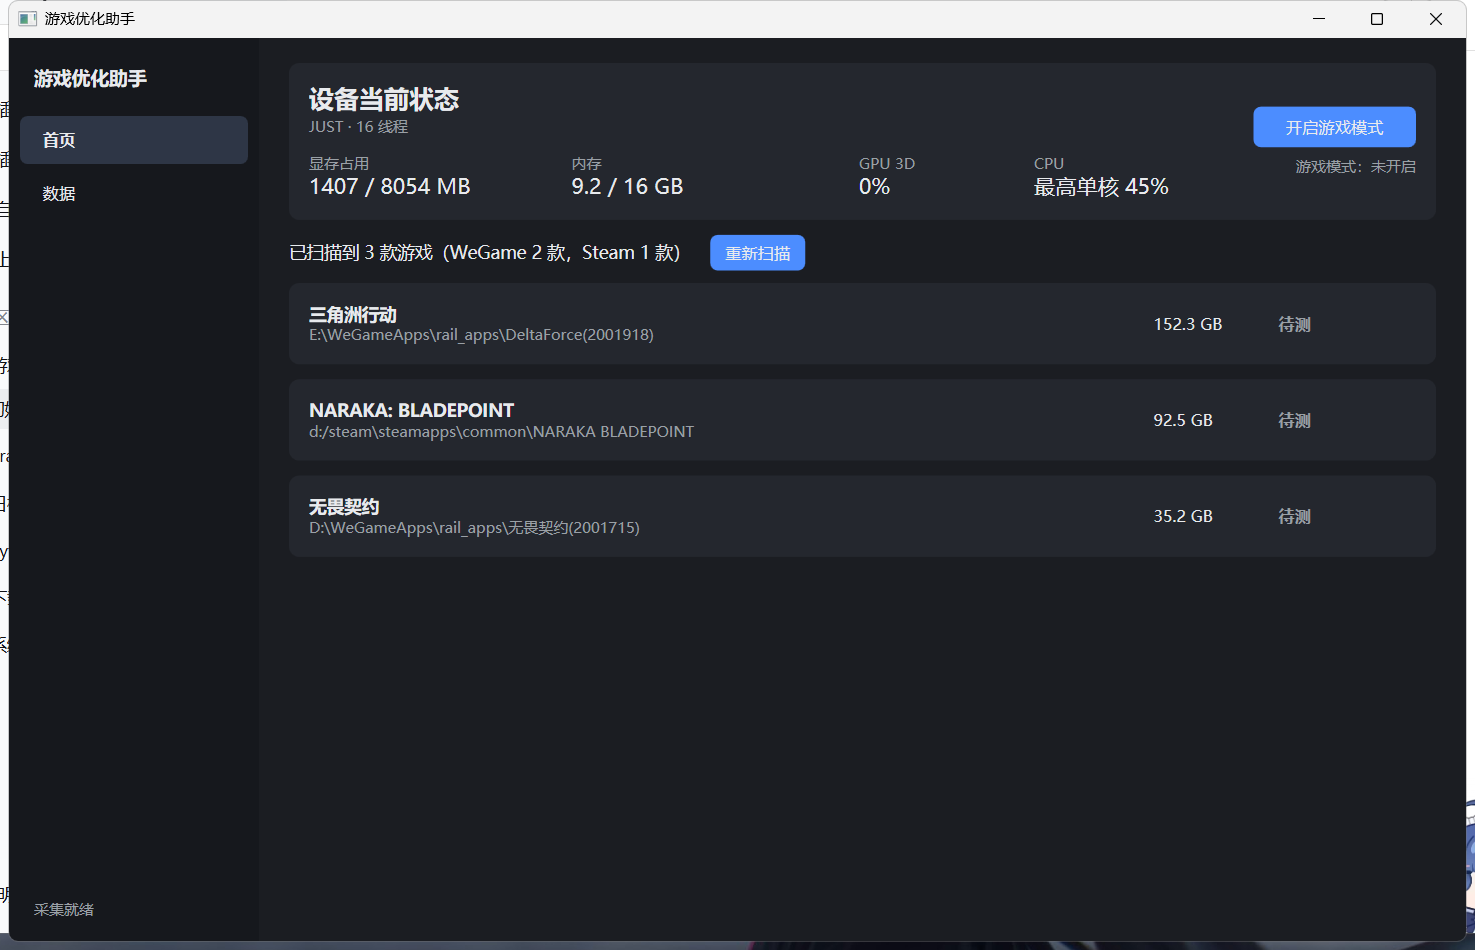
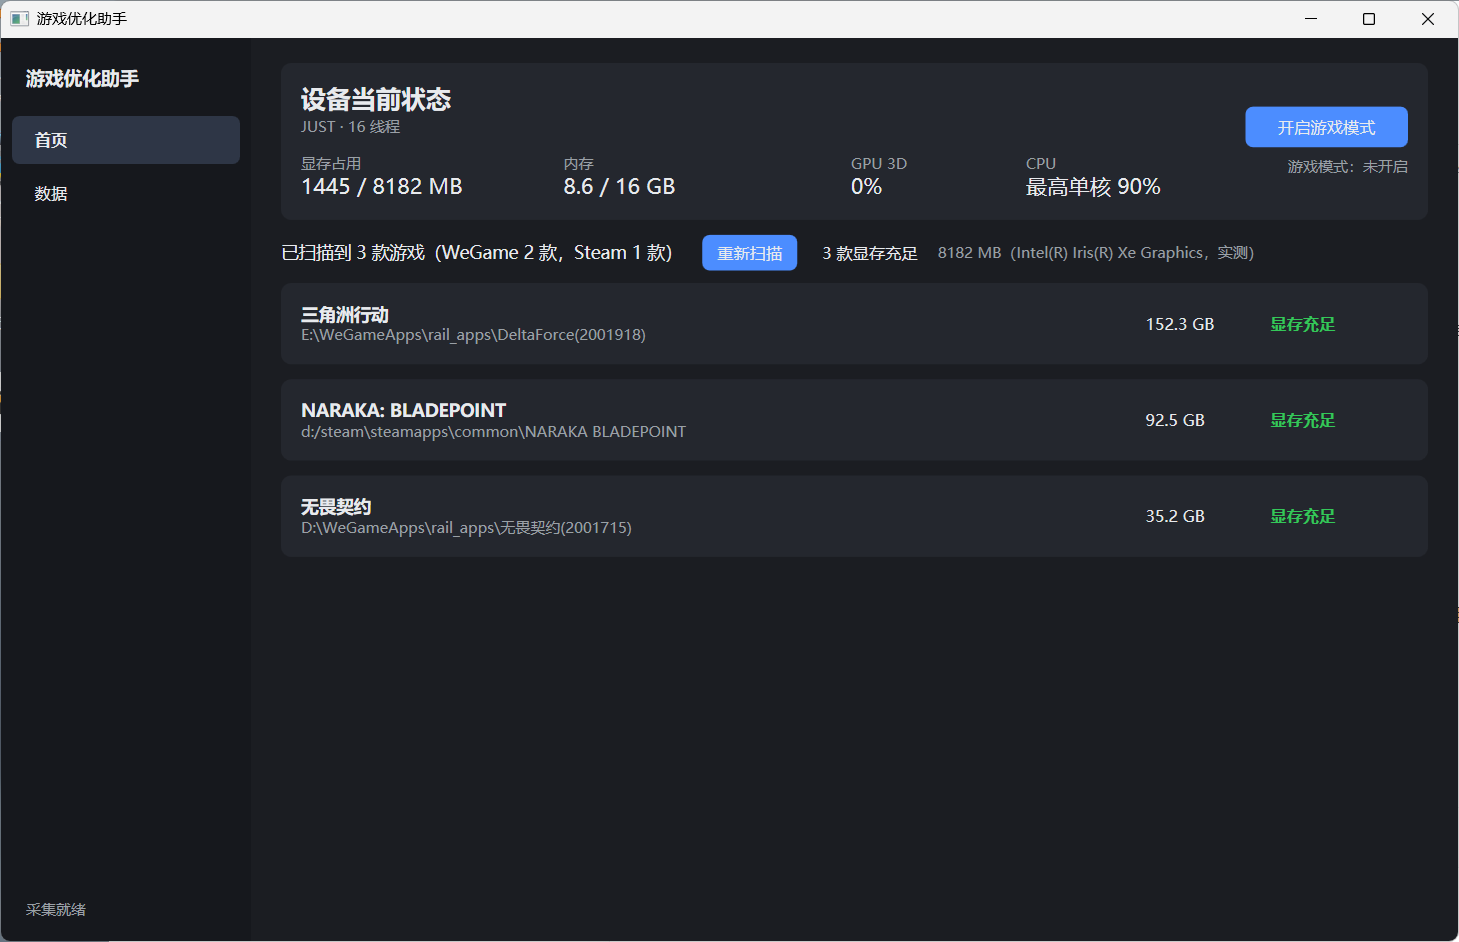
chore: 移除已无用的下拉框样式，更新首页截图

diff --git a/src/GameOptimizer.App/Views/MainWindow.xaml b/src/GameOptimizer.App/Views/MainWindow.xaml
@@ -10,25 +10,6 @@
         FontFamily="Microsoft YaHei UI">
 
     <Window.Resources>
-        <!-- 下拉框在深色界面上必须显式给前景色：全局 TextBlock 样式是浅色字，
-             默认白色 ComboBox 会把选项文字刷成白底白字，看起来像空白 -->
-        <Style TargetType="ComboBox">
-            <Setter Property="Background" Value="#FF2C3038"/>
-            <Setter Property="Foreground" Value="{StaticResource TextPrimary}"/>
-            <Setter Property="BorderBrush" Value="#FF3A3F4A"/>
-            <Setter Property="Padding" Value="8,5"/>
-            <Setter Property="FontFamily" Value="Microsoft YaHei UI"/>
-            <Setter Property="FontSize" Value="13"/>
-        </Style>
-
-        <Style TargetType="ComboBoxItem">
-            <Setter Property="Background" Value="#FF2C3038"/>
-            <Setter Property="Foreground" Value="{StaticResource TextPrimary}"/>
-            <Setter Property="Padding" Value="10,6"/>
-            <Setter Property="FontFamily" Value="Microsoft YaHei UI"/>
-            <Setter Property="FontSize" Value="13"/>
-        </Style>
-
         <!-- 左侧导航项：选中时左侧亮条 + 背景高亮 -->
         <Style x:Key="NavItem" TargetType="ListBoxItem">
             <Setter Property="Foreground" Value="{StaticResource TextMuted}"/>
